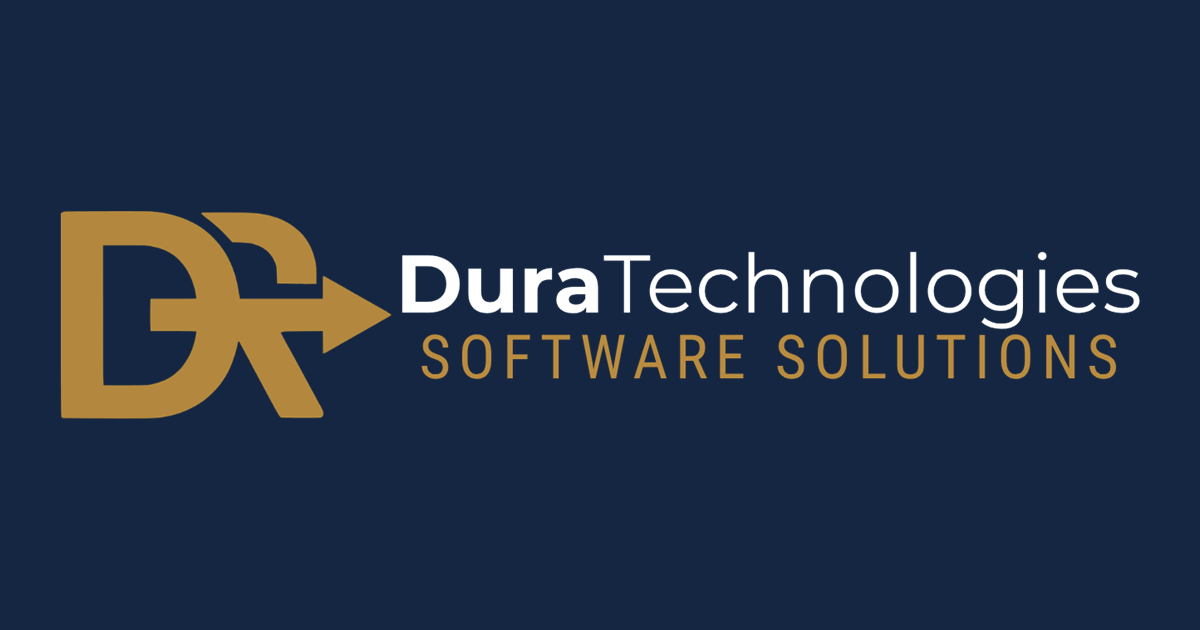
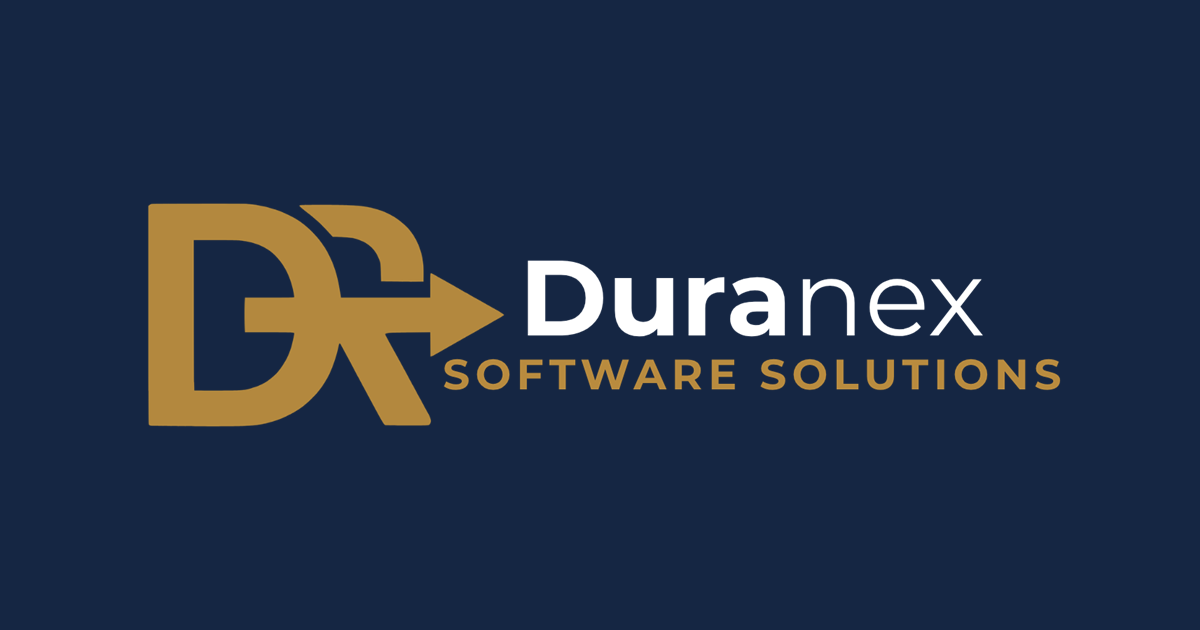
Add files via upload

Changed region(s): [[0.0308, 0.3016, 0.9558, 0.6937]]

diff --git a/index.html b/index.html
@@ -3,44 +3,44 @@
   <head>
     <meta charset="utf-8" />
     <meta name="viewport" content="width=device-width, initial-scale=1" />
-    <title>Web Design &amp; Development, South Africa | DuraTechnologies</title>
+    <title>Web Design &amp; Development | Duranex Software Solutions</title>
     <meta
       name="description"
-      content="DuraTechnologies designs and builds fast, thoughtful websites for businesses in South Africa, from custom web design to development and redesign."
+      content="Duranex Software Solutions designs and builds considered, responsive websites for businesses in South Africa, from digital direction and web design to development."
     />
     <meta name="robots" content="index, follow, max-image-preview:large, max-snippet:-1" />
-    <meta name="author" content="DuraTechnologies" />
+    <meta name="author" content="Duranex Software Solutions" />
     <meta name="theme-color" content="#152643" />
-    <link rel="canonical" href="https://duratechsoftware.com/" />
+    <link rel="canonical" href="https://duranexsolutions.com/" />
 
     <meta property="og:type" content="website" />
-    <meta property="og:site_name" content="DuraTechnologies" />
+    <meta property="og:site_name" content="Duranex Software Solutions" />
     <meta property="og:locale" content="en_ZA" />
-    <meta property="og:title" content="Web Design &amp; Development, South Africa | DuraTechnologies" />
+    <meta property="og:title" content="Web Design &amp; Development | Duranex Software Solutions" />
     <meta
       property="og:description"
-      content="DuraTechnologies designs and builds fast, thoughtful websites for businesses in South Africa, from custom web design to development and redesign."
+      content="Duranex Software Solutions designs and builds considered, responsive websites for businesses in South Africa, from digital direction and web design to development."
     />
-    <meta property="og:url" content="https://duratechsoftware.com/" />
-    <meta property="og:image" content="https://duratechsoftware.com/assets/images/og-image.png" />
+    <meta property="og:url" content="https://duranexsolutions.com/" />
+    <meta property="og:image" content="https://duranexsolutions.com/assets/images/og-image.png" />
     <meta property="og:image:width" content="1200" />
     <meta property="og:image:height" content="630" />
-    <meta property="og:image:alt" content="DuraTechnologies logo with the tagline Software Solutions on a navy background." />
+    <meta property="og:image:alt" content="Duranex Software Solutions logo in white and gold on a navy background." />
     <meta name="twitter:card" content="summary_large_image" />
-    <meta name="twitter:title" content="Web Design &amp; Development, South Africa | DuraTechnologies" />
+    <meta name="twitter:title" content="Web Design &amp; Development | Duranex Software Solutions" />
     <meta
       name="twitter:description"
-      content="DuraTechnologies designs and builds fast, thoughtful websites for businesses in South Africa, from custom web design to development and redesign."
+      content="Duranex Software Solutions designs and builds considered, responsive websites for businesses in South Africa, from digital direction and web design to development."
     />
-    <meta name="twitter:image" content="https://duratechsoftware.com/assets/images/og-image.png" />
-    <meta name="twitter:image:alt" content="DuraTechnologies logo with the tagline Software Solutions on a navy background." />
+    <meta name="twitter:image" content="https://duranexsolutions.com/assets/images/og-image.png" />
+    <meta name="twitter:image:alt" content="Duranex Software Solutions logo in white and gold on a navy background." />
 
     <link rel="icon" href="assets/logos/favicon.ico" sizes="any" />
     <link rel="icon" href="assets/logos/favicon-32x32.png" type="image/png" sizes="32x32" />
     <link rel="icon" href="assets/logos/favicon-16x16.png" type="image/png" sizes="16x16" />
     <link rel="apple-touch-icon" href="assets/logos/apple-touch-icon.png" />
     <link rel="manifest" href="assets/logos/site.webmanifest" />
-    <link rel="preload" href="assets/logos/DuraTechnologiesDark.png" as="image" type="image/png" />
+    <link rel="preload" href="assets/logos/DuranexDark.png" as="image" type="image/png" />
     <link rel="preconnect" href="https://fonts.googleapis.com" />
     <link rel="preconnect" href="https://fonts.gstatic.com" crossorigin />
     <link
@@ -55,21 +55,21 @@
         "@graph": [
           {
             "@type": "WebSite",
-            "@id": "https://duratechsoftware.com/#website",
-            "url": "https://duratechsoftware.com/",
-            "name": "DuraTechnologies",
+            "@id": "https://duranexsolutions.com/#website",
+            "url": "https://duranexsolutions.com/",
+            "name": "Duranex Software Solutions",
             "inLanguage": "en-ZA",
-            "publisher": { "@id": "https://duratechsoftware.com/#business" }
+            "publisher": { "@id": "https://duranexsolutions.com/#business" }
           },
           {
             "@type": "ProfessionalService",
-            "@id": "https://duratechsoftware.com/#business",
-            "name": "DuraTechnologies",
-            "url": "https://duratechsoftware.com/",
-            "logo": "https://duratechsoftware.com/assets/logos/DuraTechnologiesDark.png",
-            "image": "https://duratechsoftware.com/assets/images/og-image.png",
-            "description": "DuraTechnologies designs and builds fast, thoughtful websites for businesses in South Africa, from custom web design to development and redesign.",
-            "email": "luan@duratechsoftware.com",
+            "@id": "https://duranexsolutions.com/#business",
+            "name": "Duranex Software Solutions",
+            "url": "https://duranexsolutions.com/",
+            "logo": "https://duranexsolutions.com/assets/logos/DuranexDark.png",
+            "image": "https://duranexsolutions.com/assets/images/og-image.png",
+            "description": "Duranex Software Solutions designs and builds considered, responsive websites for businesses in South Africa, from digital direction and web design to development.",
+            "email": "hello@duranexsolutions.com",
             "telephone": "+27836095579",
             "areaServed": "South Africa",
             "priceRange": "$$",
@@ -87,8 +87,8 @@
   <body>
     <a class="skip-link" href="#main">Skip to content</a>
     <header class="site-header">
-      <a class="brand" href="#home" aria-label="DuraTechnologies home">
-        <img class="brand-logo" src="assets/logos/DuraTechnologiesDark.png" alt="DuraTechnologies — Software Solutions" width="1379" height="814" />
+      <a class="brand" href="#home" aria-label="Duranex Software Solutions home">
+        <img class="brand-logo" src="assets/logos/DuranexDark.png" alt="Duranex Software Solutions" width="1379" height="814" />
       </a>
       <button class="menu-toggle" type="button" aria-expanded="false" aria-controls="site-nav">
         <span class="menu-toggle-label">Menu</span>
@@ -98,7 +98,7 @@
         <a href="#about">Approach</a>
         <a href="#work">Selected work</a>
         <a href="#approach">Services</a>
-        <a class="whatsapp-link nav-whatsapp" href="https://wa.me/27836095579" target="_blank" rel="noopener noreferrer" aria-label="Chat with DuraTechnologies on WhatsApp">
+        <a class="whatsapp-link nav-whatsapp" href="https://wa.me/27836095579" target="_blank" rel="noopener noreferrer" aria-label="Chat with Duranex Software Solutions on WhatsApp">
           <svg class="whatsapp-icon" viewBox="0 0 24 24" aria-hidden="true" focusable="false">
             <path d="M12.04 2a9.86 9.86 0 0 0-8.45 14.95L2.2 22l5.18-1.36A9.9 9.9 0 1 0 12.04 2Zm0 17.94a8.03 8.03 0 0 1-4.1-1.12l-.3-.18-3.07.8.82-2.99-.2-.31a8.03 8.03 0 1 1 6.85 3.8Zm4.4-6.02c-.24-.12-1.43-.7-1.65-.78-.22-.08-.38-.12-.54.12-.16.24-.62.78-.76.94-.14.16-.28.18-.52.06-.24-.12-1.02-.38-1.94-1.2-.72-.64-1.2-1.43-1.34-1.67-.14-.24-.02-.37.1-.49.11-.1.24-.28.36-.42.12-.14.16-.24.24-.4.08-.16.04-.3-.02-.42-.06-.12-.54-1.3-.74-1.78-.2-.46-.4-.4-.54-.41h-.46c-.16 0-.42.06-.64.3-.22.24-.84.82-.84 2s.86 2.32.98 2.48c.12.16 1.7 2.6 4.11 3.64.58.25 1.03.4 1.38.51.58.18 1.1.16 1.52.1.46-.07 1.43-.58 1.63-1.14.2-.56.2-1.04.14-1.14-.06-.1-.22-.16-.46-.28Z"/>
           </svg>
@@ -115,7 +115,7 @@
         <canvas class="hero-mesh" aria-hidden="true"></canvas>
         <div class="hero-content">
           <div class="hero-content-inner">
-            <p class="eyebrow hero-eyebrow"><span class="status-dot"></span> Independent digital studio · DuraTechnologies</p>
+            <p class="eyebrow hero-eyebrow"><span class="status-dot"></span> Independent digital studio · Duranex Software Solutions</p>
             <h1 id="hero-title">Less noise.<br />More <span>feeling.</span></h1>
             <div class="hero-bottom">
               <p class="hero-intro">We build thoughtful digital experiences that make the right things impossible to ignore.</p>
@@ -290,12 +290,12 @@
               </svg>
               <span>WhatsApp <strong>+27 83 609 5579</strong></span>
             </a>
-            <a class="whatsapp-link contact-whatsapp contact-email" href="mailto:luan@duratechsoftware.com">
+            <a class="whatsapp-link contact-whatsapp contact-email" href="mailto:hello@duranexsolutions.com">
               <svg class="email-icon" viewBox="0 0 24 24" aria-hidden="true" focusable="false">
                 <path d="M3.75 5.75h16.5c.69 0 1.25.56 1.25 1.25v10c0 .69-.56 1.25-1.25 1.25H3.75c-.69 0-1.25-.56-1.25-1.25V7c0-.69.56-1.25 1.25-1.25Z" fill="none" stroke="currentColor" stroke-width="1.6"/>
                 <path d="m3.25 7 8.75 6.5L20.75 7" fill="none" stroke="currentColor" stroke-linecap="round" stroke-linejoin="round" stroke-width="1.6"/>
               </svg>
-              <span>Email <strong>luan@duratechsoftware.com</strong></span>
+              <span>Email <strong>hello@duranexsolutions.com</strong></span>
             </a>
           </div>
           <p class="form-status form-field-full" id="form-status" role="status" aria-live="polite"></p>
@@ -305,11 +305,11 @@
     </main>
 
     <footer class="site-footer">
-      <a class="brand footer-brand" href="#home" aria-label="DuraTechnologies, back to top">
-        <img class="brand-logo" src="assets/logos/DuraTechnologiesDark.png" alt="DuraTechnologies — Software Solutions" width="1379" height="814" />
+      <a class="brand footer-brand" href="#home" aria-label="Duranex Software Solutions, back to top">
+        <img class="brand-logo" src="assets/logos/DuranexDark.png" alt="Duranex Software Solutions" width="1379" height="814" />
       </a>
-      <p>Software Solutions<br /><strong>Designed by DuraTechnologies</strong></p>
-      <span>© <span id="current-year">2025</span> DURATECHNOLOGIES</span>
+      <p>Software Solutions<br /><strong>Designed by Duranex Software Solutions</strong></p>
+      <span>© <span id="current-year">2025</span> DURANEX SOFTWARE SOLUTIONS</span>
     </footer>
   </body>
 </html> 

diff --git a/styles.css b/styles.css
@@ -99,7 +99,7 @@ button {
 
 .brand-logo {
   display: block;
-  width: 400px;
+  width: min(280px, 22vw);
   height: auto;
 }
 
@@ -705,37 +705,37 @@ button {
 }
 
 @media (max-width: 700px) {
-  [data-site="alsr"] { --page-h: 5314; }
-  [data-site="charmz"] { --page-h: 6341; }
+  [data-site="alsr"] { --page-h: 5350; }
+  [data-site="charmz"] { --page-h: 6400; }
 }
 
 @media (max-width: 600px) {
-  [data-site="alsr"] { --page-h: 5587; }
+  [data-site="alsr"] { --page-h: 5565; }
 }
 
 @media (max-width: 500px) {
-  [data-site="alsr"] { --page-h: 5963; }
-  [data-site="charmz"] { --page-h: 6342; }
+  [data-site="alsr"] { --page-h: 5860; }
+  [data-site="charmz"] { --page-h: 6350; }
 }
 
 @media (max-width: 430px) {
-  [data-site="alsr"] { --page-h: 6449; }
-  [data-site="charmz"] { --page-h: 6636; }
+  [data-site="alsr"] { --page-h: 6180; }
+  [data-site="charmz"] { --page-h: 6420; }
 }
 
 @media (max-width: 400px) {
-  [data-site="alsr"] { --page-h: 6681; }
-  [data-site="charmz"] { --page-h: 6866; }
+  [data-site="alsr"] { --page-h: 6485; }
+  [data-site="charmz"] { --page-h: 6590; }
 }
 
 @media (max-width: 360px) {
-  [data-site="alsr"] { --page-h: 7251; }
-  [data-site="charmz"] { --page-h: 7147; }
+  [data-site="alsr"] { --page-h: 6855; }
+  [data-site="charmz"] { --page-h: 6890; }
 }
 
 @media (max-width: 320px) {
-  [data-site="alsr"] { --page-h: 7697; }
-  [data-site="charmz"] { --page-h: 7373; }
+  [data-site="alsr"] { --page-h: 7250; }
+  [data-site="charmz"] { --page-h: 7150; }
 }
 
 .slide-controls {
@@ -1349,7 +1349,7 @@ body.motion-ready [data-reveal].is-visible {
 
 @media (max-width: 1000px) {
   .brand-logo {
-    --logo-w: 27vw;
+    --logo-w: min(250px, 25vw);
     width: var(--logo-w);
   }
 
@@ -1427,7 +1427,7 @@ body.motion-ready [data-reveal].is-visible {
 
 @media (min-width: 701px) and (max-width: 800px) {
   .brand-logo {
-    --logo-w: 328px;
+    --logo-w: 260px;
     width: var(--logo-w);
   }
   .site-header {
@@ -1509,7 +1509,7 @@ body.motion-ready [data-reveal].is-visible {
   }
 
   .brand-logo {
-    --logo-w: min(260px, calc(88vw - 100px));
+    --logo-w: min(220px, calc(88vw - 100px));
     width: var(--logo-w);
   }
   .menu-toggle {
@@ -1695,7 +1695,12 @@ body.motion-ready [data-reveal].is-visible {
   }
 
   .project-showcase {
+    width: calc(100% + 4vw);
     margin-top: 39px;
+  }
+
+  .project-card {
+    flex-basis: calc(100% - 28px);
   }
 
   .browser-toolbar {
@@ -1875,8 +1880,8 @@ body.motion-ready [data-reveal].is-visible {
     height: 76px;
   }
 
-  .brand-logo {
-    --logo-w: min(315px, calc(88vw - 100px));
+  .site-header .brand-logo {
+    --logo-w: min(220px, calc(88vw - 100px));
     width: var(--logo-w);
   }
 
